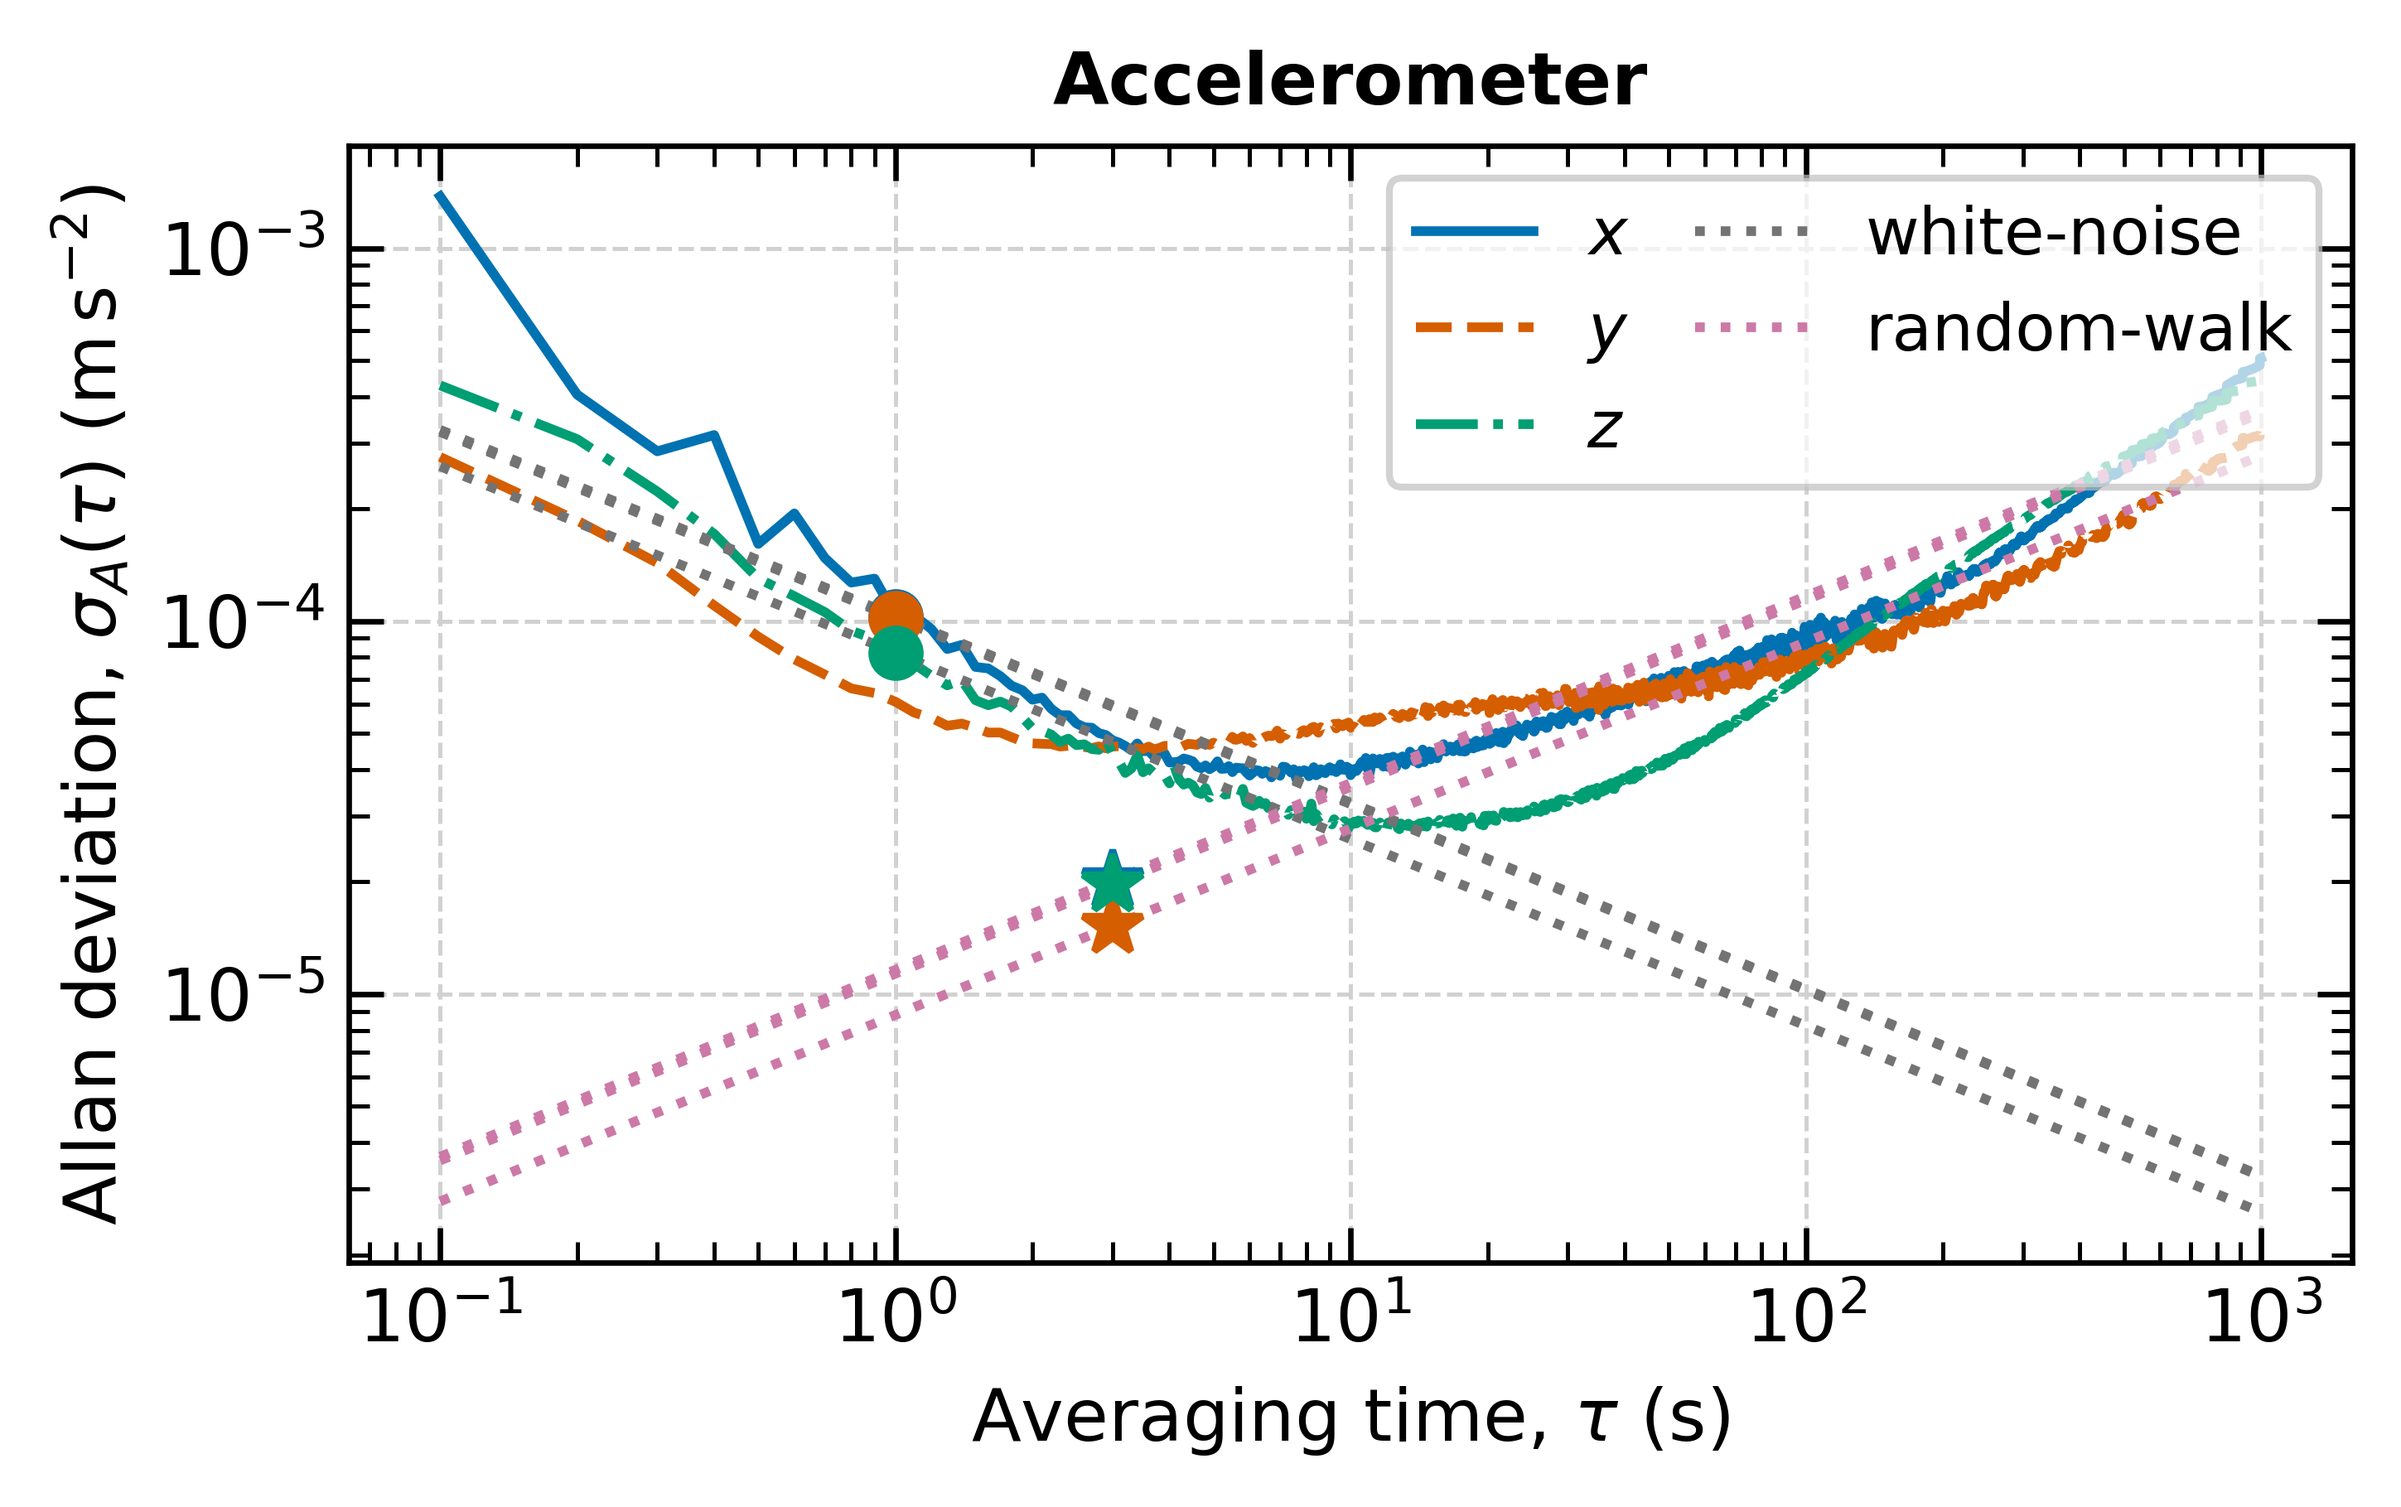
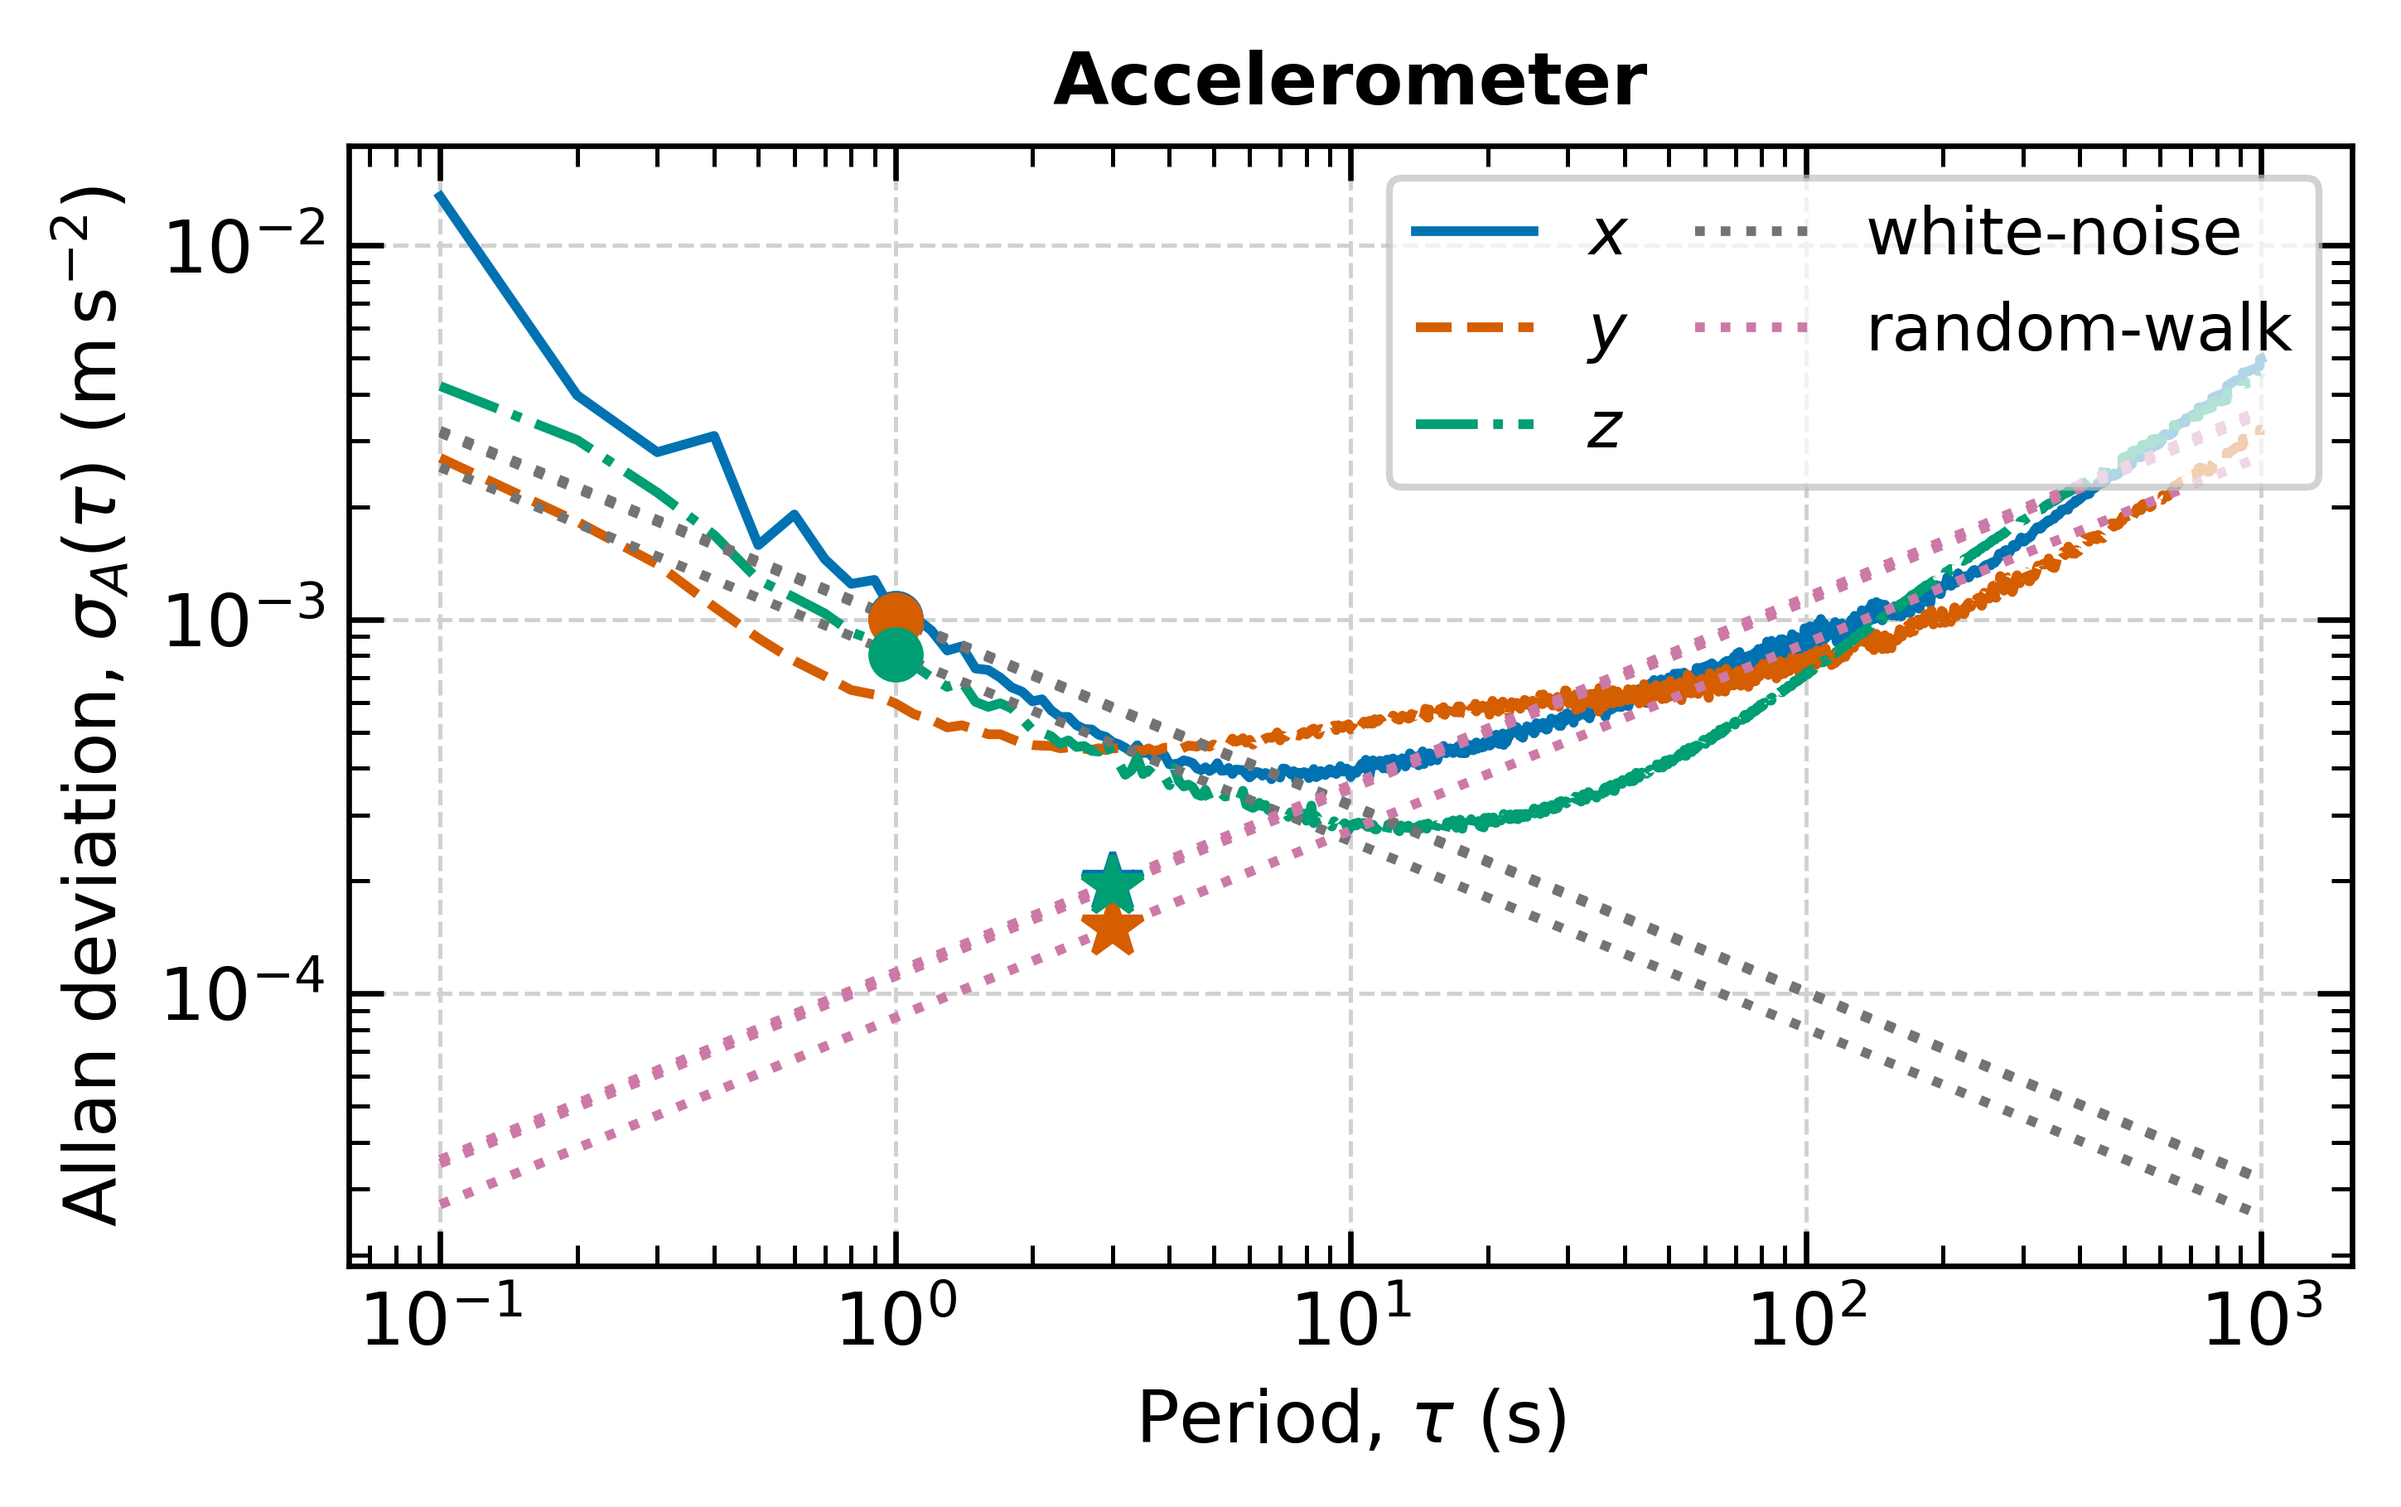
fix imu allan figure; add lidar-radar calibration setup

diff --git a/index.html b/index.html
@@ -630,7 +630,30 @@
               procedure using multiple corner reflectors placed in the environment. This refinement significantly
               improves alignment precision compared to the raw CAD configuration, providing a reliable geometric basis
               for downstream multi-sensor SLAM.
-              <br>
+            </p>
+          </div>
+
+
+          <div style="margin-top: 2rem; margin-bottom: 2rem;">
+            <div class="columns is-multiline is-centered">
+              <div class="column is-half has-text-centered">
+                <figure class="image">
+                  <img src="./imgs/Calib_Target.png" alt="Corner-reflector target setup">
+                </figure>
+                <h5 class="title is-6" style="margin-top: 0.75rem;"><strong>Corner-reflector target setup</strong></h5>
+              </div>
+              <div class="column is-half has-text-centered">
+                <figure class="image">
+                  <img src="./imgs/Calib_PCD.png" alt="LiDAR-Radar alignment after refinement">
+                </figure>
+                <h5 class="title is-6" style="margin-top: 0.75rem;"><strong>LiDAR-Radar alignment after refinement</strong></h5>
+              </div>
+            </div>
+          </div>
+
+
+          <div class="content has-text-justified">
+            <p>
               The figure below is the visualization of the LiDAR and 4D Radar point clouds used to assess the extrinsic
               calibration. Height-colored LiDAR points and white 4D Radar points are visualized in a common frame
               following extrinsic alignment, with side and top-down views illustrating the spatial consistency across
@@ -734,8 +757,8 @@
                 <tbody>
                   <tr>
                     <td class="has-text-centered">Accelerometer</td>
-                    <td class="has-text-centered">1.0309 &times; 10<sup>&minus;4</sup> m/s<sup>2</sup>/&radic;Hz</td>
-                    <td class="has-text-centered">2.0133 &times; 10<sup>&minus;5</sup> m/s<sup>3</sup>/&radic;Hz</td>
+                    <td class="has-text-centered">1.0110 &times; 10<sup>&minus;3</sup> m/s<sup>2</sup>/&radic;Hz</td>
+                    <td class="has-text-centered">1.9743 &times; 10<sup>&minus;4</sup> m/s<sup>3</sup>/&radic;Hz</td>
                   </tr>
                   <tr>
                     <td class="has-text-centered">Gyroscope</td>
